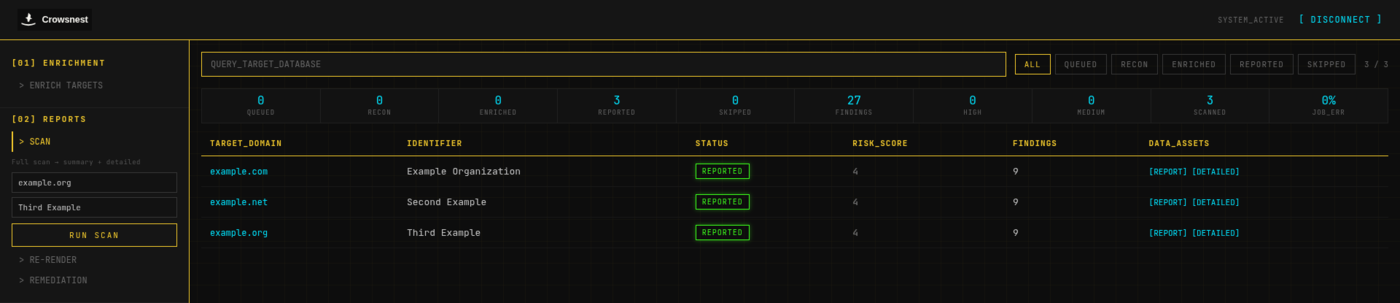
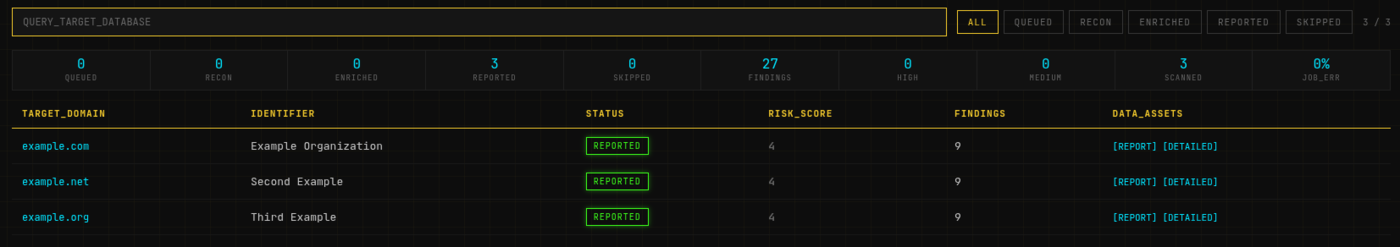
docs: crop the screenshot to the content area, retire the no-push rule
The vertical crop did not change how large the UI text renders on
GitHub: the page scales any README image down to the container width, so
the only thing that sets the final text size is how much interface is
packed across the frame. Dropping the left sidebar and the top chrome
takes the content from 1920px wide to 1653px before the export, which is
where the legibility actually comes from. What is left is the search
bar, the metric row and the target table, closing clean on the right.

CLAUDE.md described a repository with no remote and nothing pushed. The
remote is configured, the repo is public, CI runs on GitHub Actions and
push is the normal flow, so that section is rewritten — keeping the
reason it existed, which is that published history cannot be rewritten
quietly and no secret belongs in a commit. Logo, screenshot, security
grep and repo creation drop off the open list; the visual PDF review
stays. Design decisions and the two documented traps are untouched.

diff --git a/CLAUDE.md b/CLAUDE.md
@@ -156,19 +156,21 @@ translate them.
 
 ## Still open
 
-- **Logo.** The current wordmark is plain typography, a placeholder for a
-  real one. Replacing it is a single file — see the branding note above.
-- **Final security grep.** Run before publishing, over the whole tree.
 - **Visual PDF review.** `examples/sample_report.pdf` has been checked by
   text extraction, not read page by page.
-- **Create the remote and push.** Not done. See below.
 
-## No remote, no push
+The logo, the dashboard screenshot, the final security grep over the whole
+tree and the creation of the repository are done.
 
-**The repository has no remote configured and nothing has been pushed.**
-Do not create a remote, add one, or push, until the owner authorises it
-explicitly. Local commits are fine.
+## The repository is public
 
-One reason this matters concretely: the private repo this was derived from
-has real API credentials in its git history, on a remote. That is exactly
-the mistake this repo exists to avoid repeating.
+Remote `origin` is `git@github.com:GrpX/crowsnest.git`, published at
+github.com/GrpX/crowsnest, default branch `main`. CI runs there on GitHub
+Actions — ruff, pytest and the shell job, all green. Committing and pushing
+is the normal flow now; the earlier "no remote, no push" rule is retired.
+
+What has not changed is why that rule existed. The private repo this was
+derived from has real API credentials in its git history, on a remote, and
+published history cannot be rewritten quietly. **Nothing secret goes in a
+commit.** `.env`, any provider config holding real keys, and everything
+under `db/`, `targets/` and `reports/` stay ignored.
